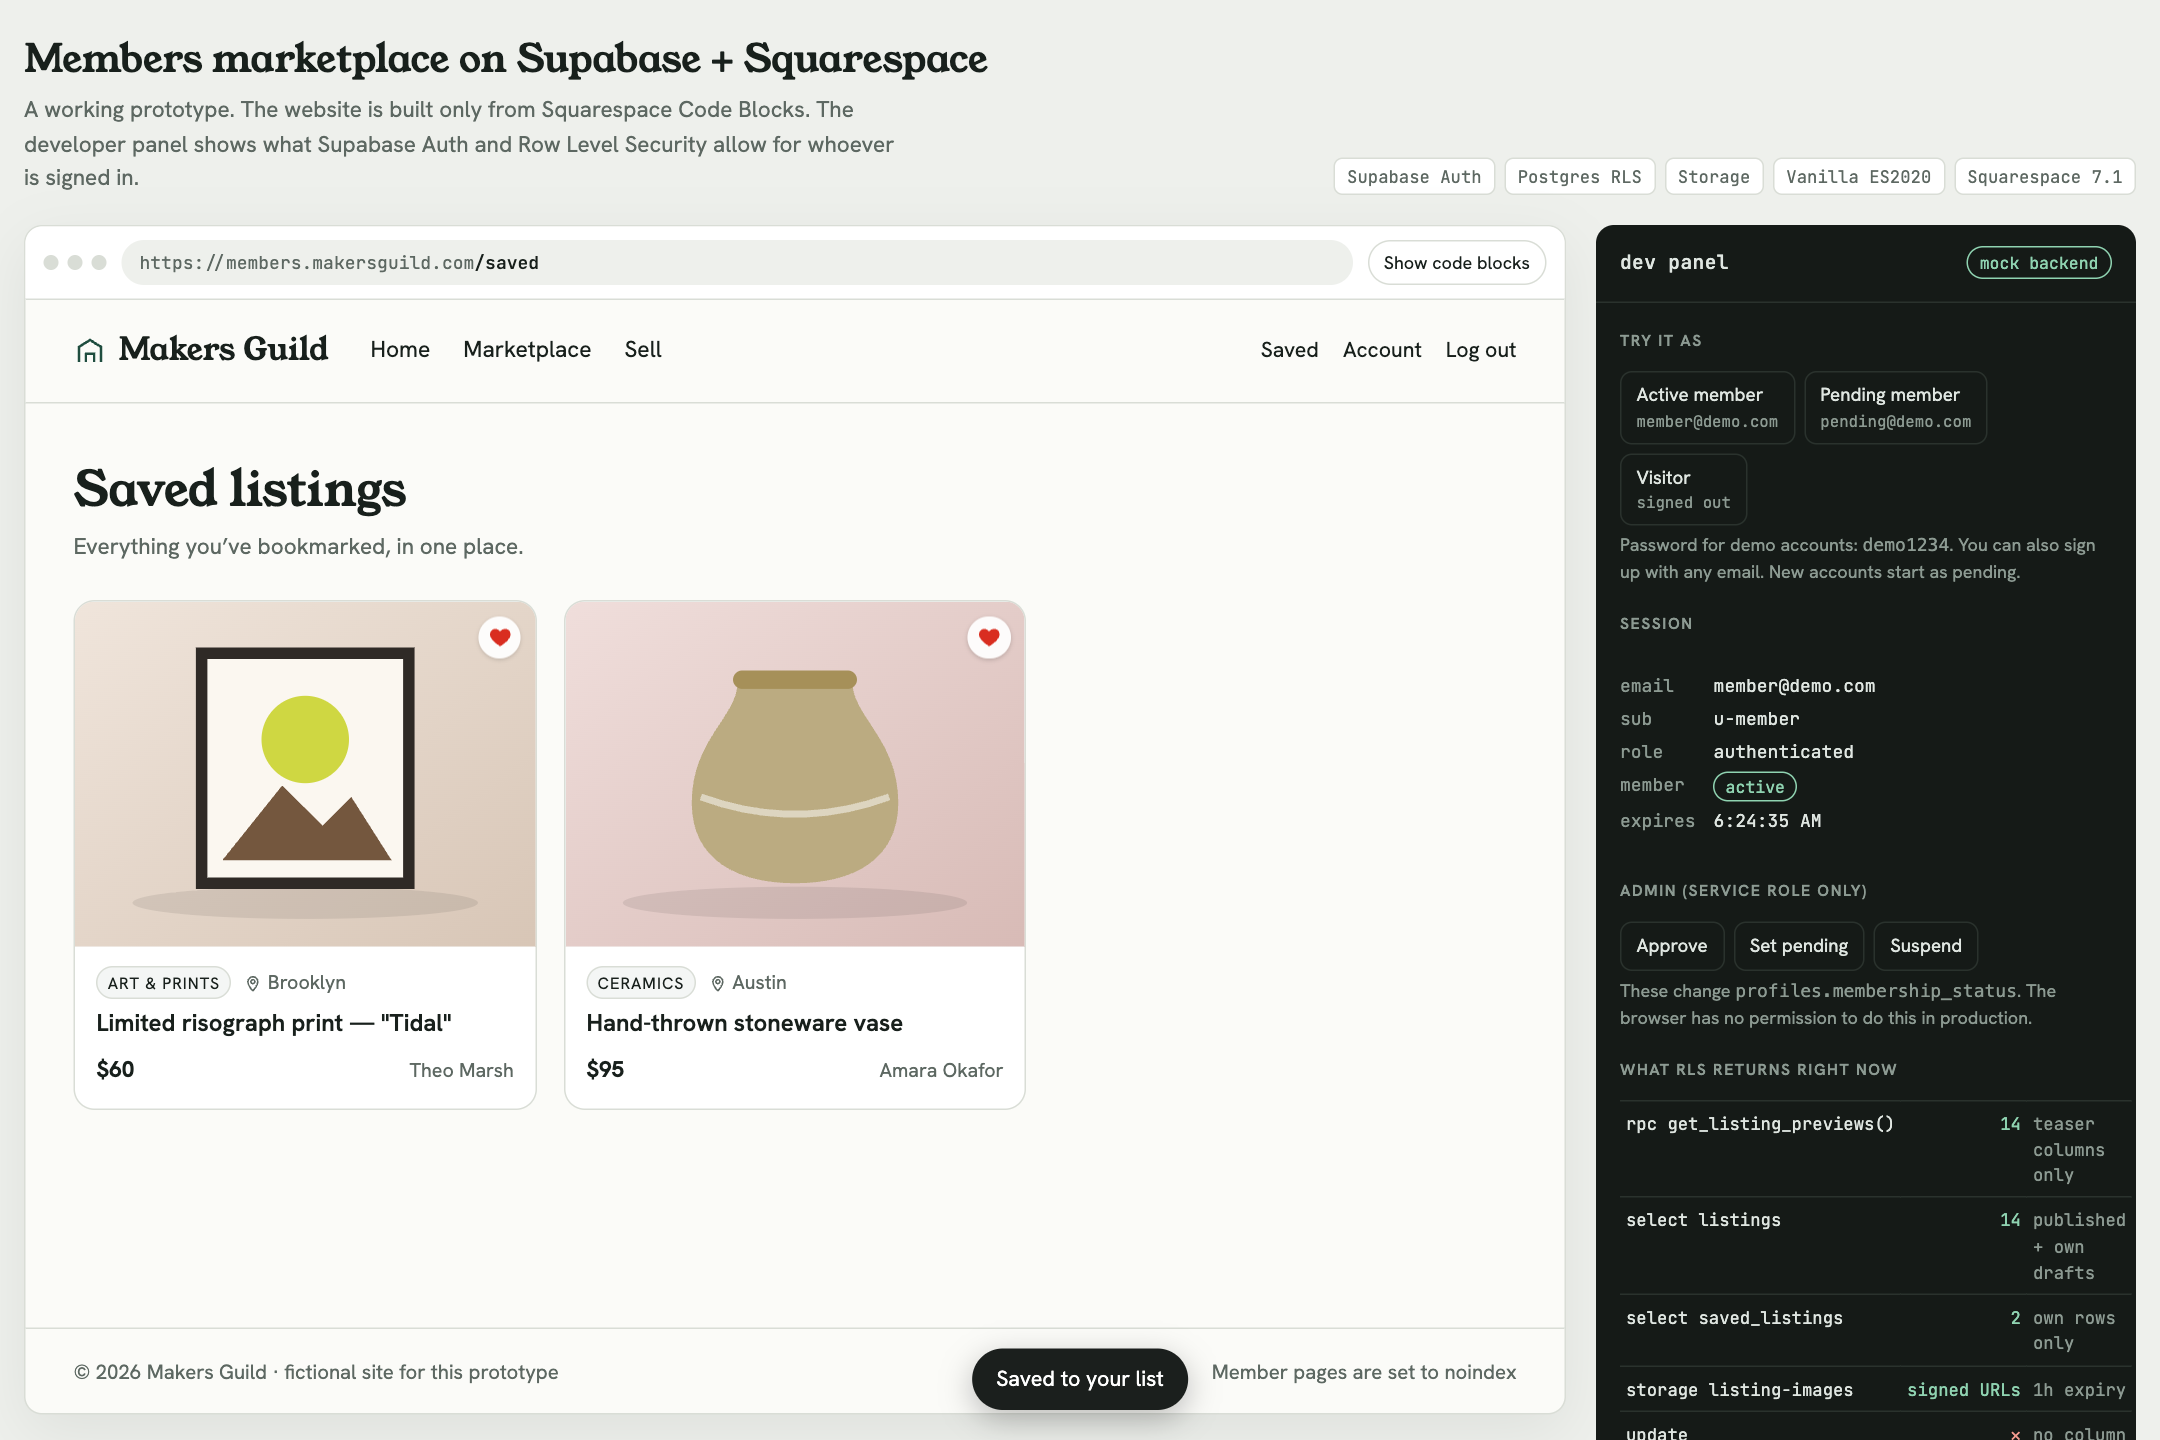
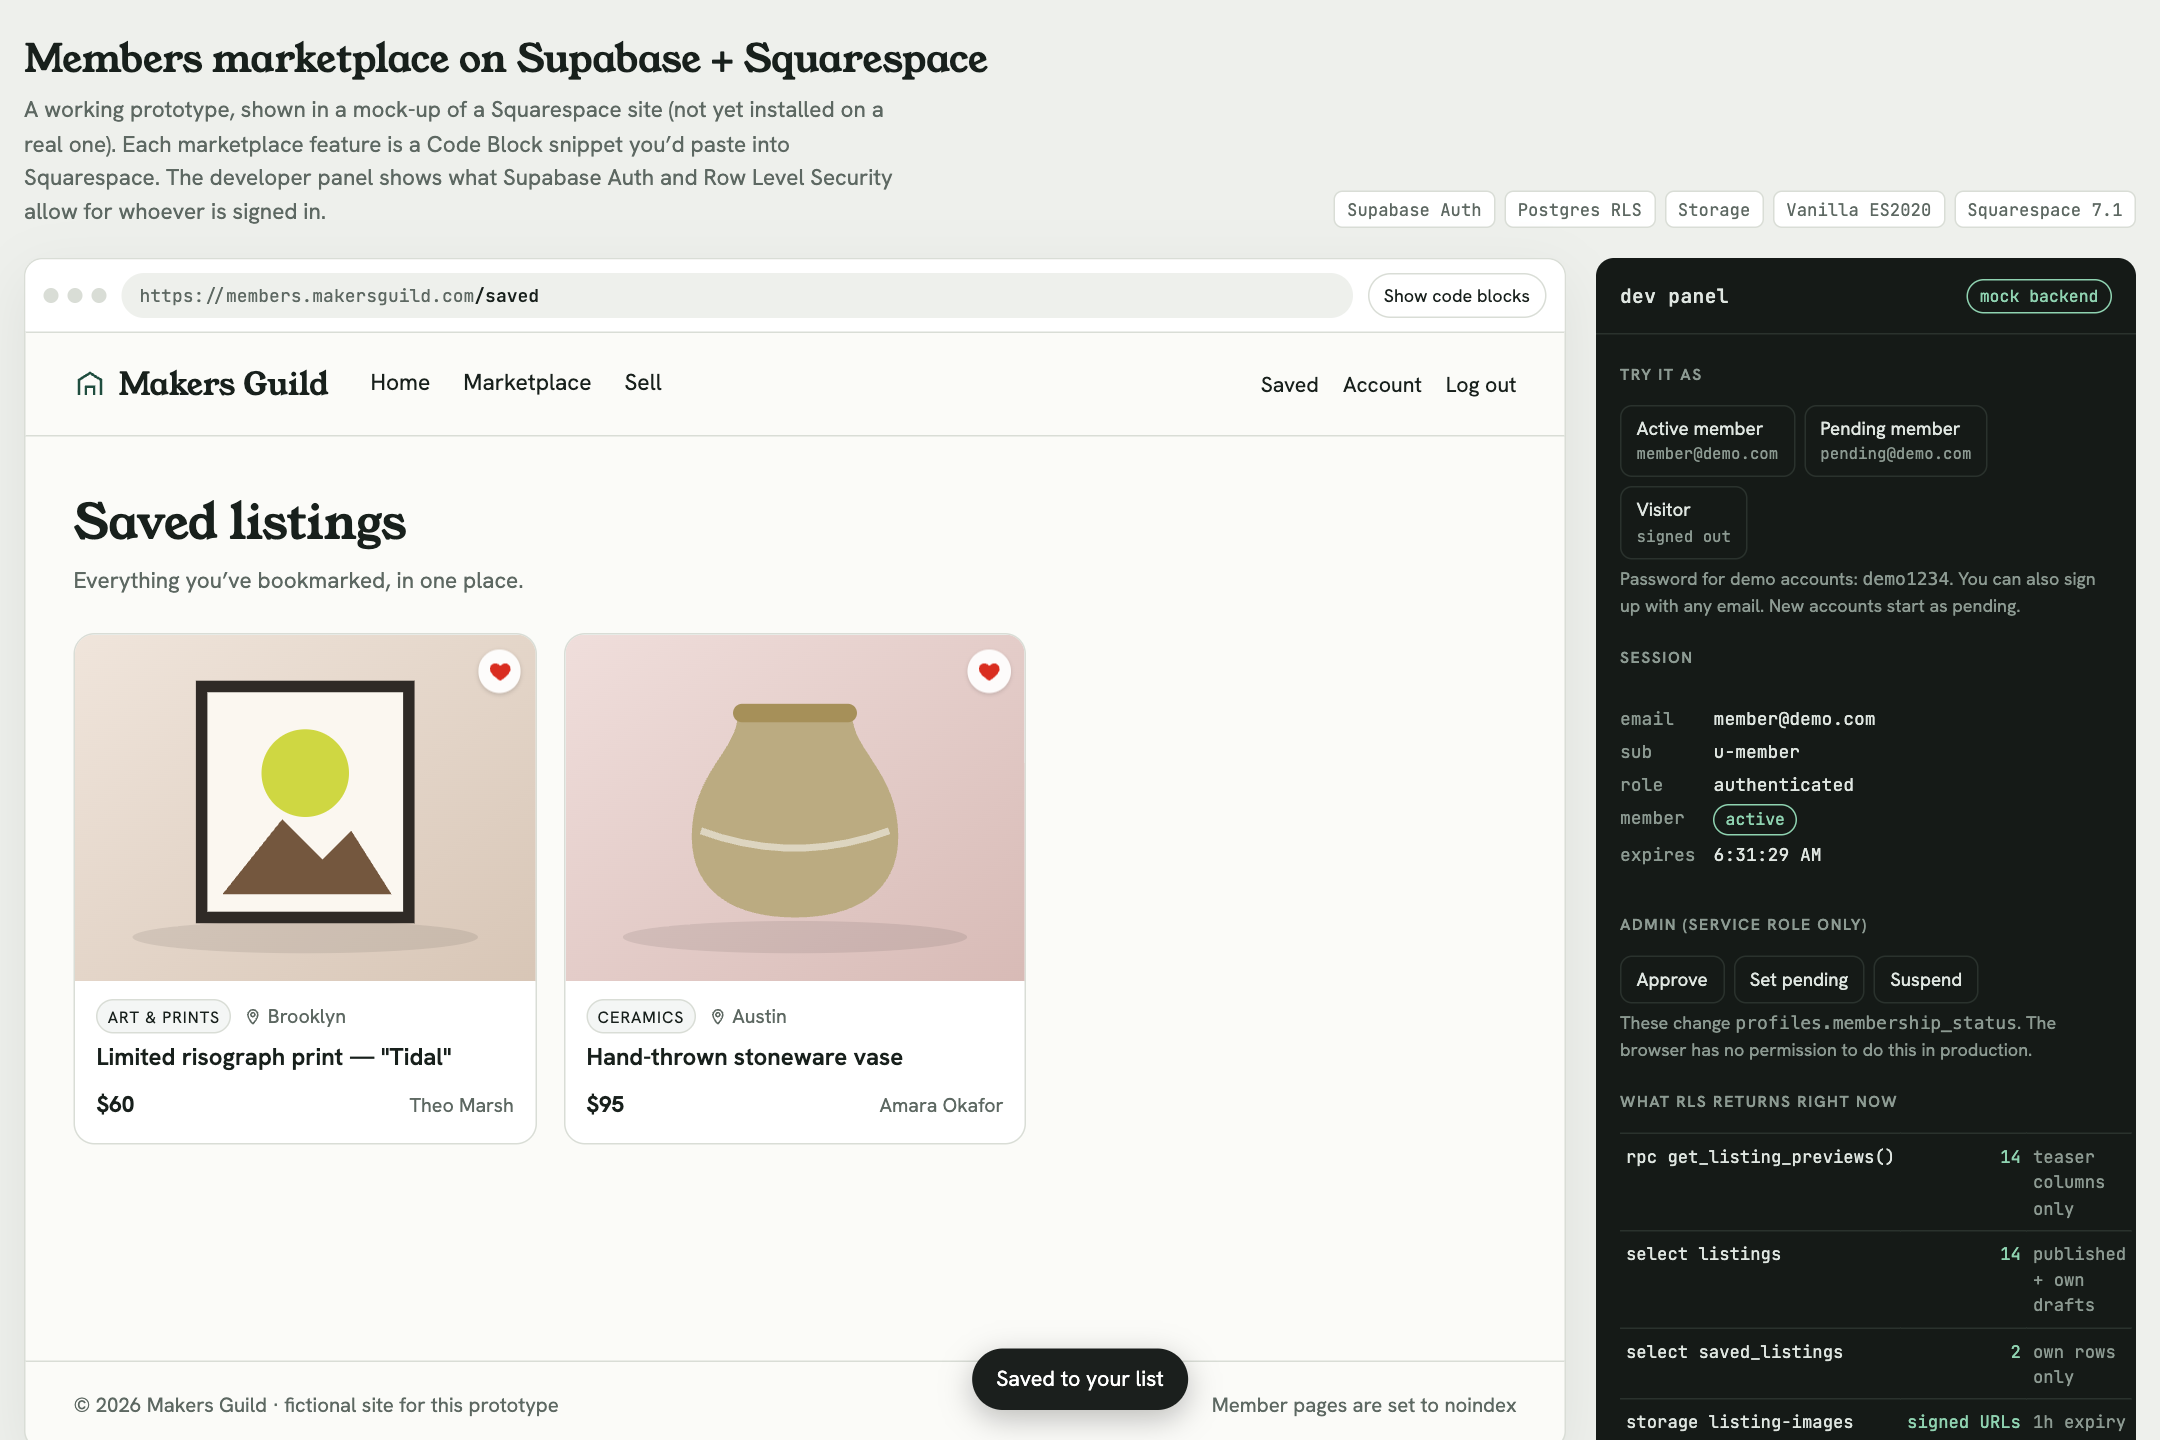
Clarify prototype status: Squarespace mock-up, not yet on a live site

diff --git a/demo/shell.html b/demo/shell.html
@@ -163,7 +163,7 @@ main#site-main { padding: 40px 32px 56px; min-height: 520px; }
   <header class="intro">
     <div>
       <h1>Members marketplace on Supabase + Squarespace</h1>
-      <p>A working prototype. The website is built only from Squarespace Code Blocks. The developer panel shows what Supabase Auth and Row Level Security allow for whoever is signed in.</p>
+      <p>A working prototype, shown in a mock-up of a Squarespace site (not yet installed on a real one). Each marketplace feature is a Code Block snippet you’d paste into Squarespace. The developer panel shows what Supabase Auth and Row Level Security allow for whoever is signed in.</p>
     </div>
     <div class="stack" aria-label="Stack">
       <span class="tag">Supabase Auth</span><span class="tag">Postgres RLS</span><span class="tag">Storage</span><span class="tag">Vanilla ES2020</span><span class="tag">Squarespace 7.1</span>

diff --git a/dist/marketplace-demo.html b/dist/marketplace-demo.html
@@ -334,7 +334,7 @@ main#site-main { padding: 40px 32px 56px; min-height: 520px; }
   <header class="intro">
     <div>
       <h1>Members marketplace on Supabase + Squarespace</h1>
-      <p>A working prototype. The website is built only from Squarespace Code Blocks. The developer panel shows what Supabase Auth and Row Level Security allow for whoever is signed in.</p>
+      <p>A working prototype, shown in a mock-up of a Squarespace site (not yet installed on a real one). Each marketplace feature is a Code Block snippet you’d paste into Squarespace. The developer panel shows what Supabase Auth and Row Level Security allow for whoever is signed in.</p>
     </div>
     <div class="stack" aria-label="Stack">
       <span class="tag">Supabase Auth</span><span class="tag">Postgres RLS</span><span class="tag">Storage</span><span class="tag">Vanilla ES2020</span><span class="tag">Squarespace 7.1</span>

diff --git a/docs/index.html b/docs/index.html
@@ -349,7 +349,7 @@ main#site-main { padding: 40px 32px 56px; min-height: 520px; }
   <header class="intro">
     <div>
       <h1>Members marketplace on Supabase + Squarespace</h1>
-      <p>A working prototype. The website is built only from Squarespace Code Blocks. The developer panel shows what Supabase Auth and Row Level Security allow for whoever is signed in.</p>
+      <p>A working prototype, shown in a mock-up of a Squarespace site (not yet installed on a real one). Each marketplace feature is a Code Block snippet you’d paste into Squarespace. The developer panel shows what Supabase Auth and Row Level Security allow for whoever is signed in.</p>
     </div>
     <div class="stack" aria-label="Stack">
       <span class="tag">Supabase Auth</span><span class="tag">Postgres RLS</span><span class="tag">Storage</span><span class="tag">Vanilla ES2020</span><span class="tag">Squarespace 7.1</span>

diff --git a/README.md b/README.md
@@ -1,6 +1,8 @@
 # Members Marketplace — Supabase + Squarespace
 
-A secure, members-only marketplace that runs inside an existing Squarespace site. Squarespace stays the CMS and the design; Supabase handles accounts, data, files and access rules.
+A secure, members-only marketplace designed to run inside an existing Squarespace site. Squarespace stays the CMS and the design; Supabase handles accounts, data, files and access rules.
+
+> **Prototype status:** the demo runs in a mock-up of a Squarespace site with an in-browser stand-in for Supabase. The database rules have been tested against a real (local) Supabase instance. The Squarespace snippets are ready to install but haven't been tested on a live Squarespace site yet.
 
 ```
 Squarespace page ──► Code Block <div data-mp="marketplace">
@@ -15,7 +17,7 @@ Squarespace page ──► Code Block <div data-mp="marketplace">
 
 **Live demo:** https://dtrinidad-iv.github.io/members-marketplace/. It runs in the browser with nothing to install. A built-in mock backend applies the same access rules as the real database.
 
-The page shows a sample Squarespace site, with a **developer panel** beside it showing who is signed in and what the database returns for them.
+The page shows a mock-up of a Squarespace site (a fictional "Makers Guild"), with a **developer panel** beside it showing who is signed in and what the database returns for them.
 
 | Account | Password | What you'll see |
 |---|---|---|
